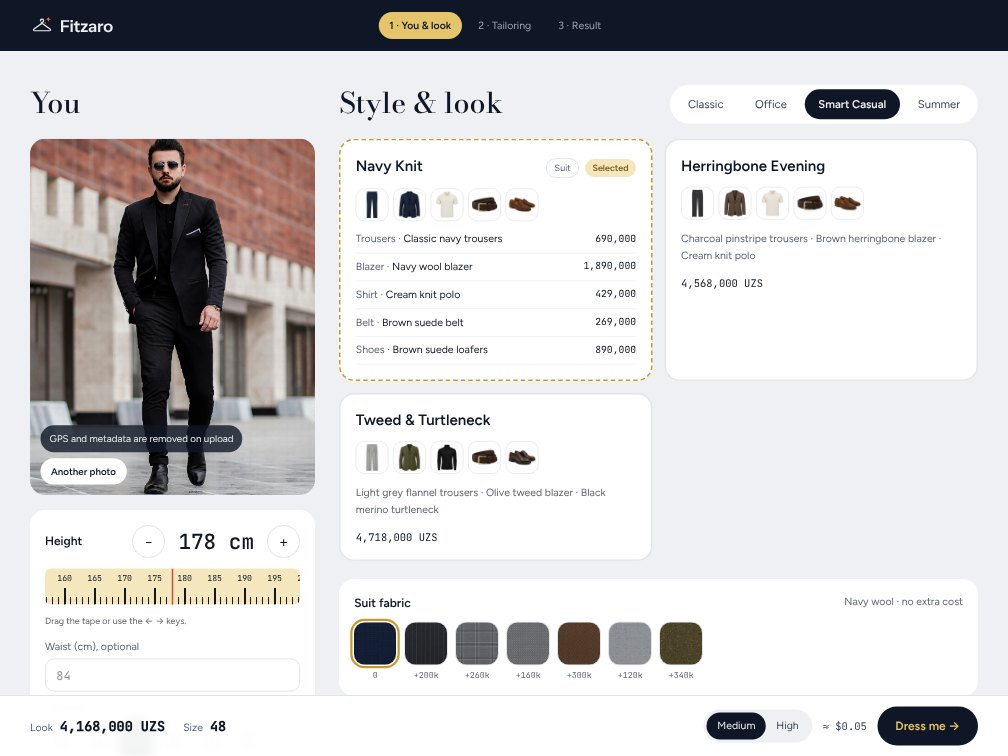
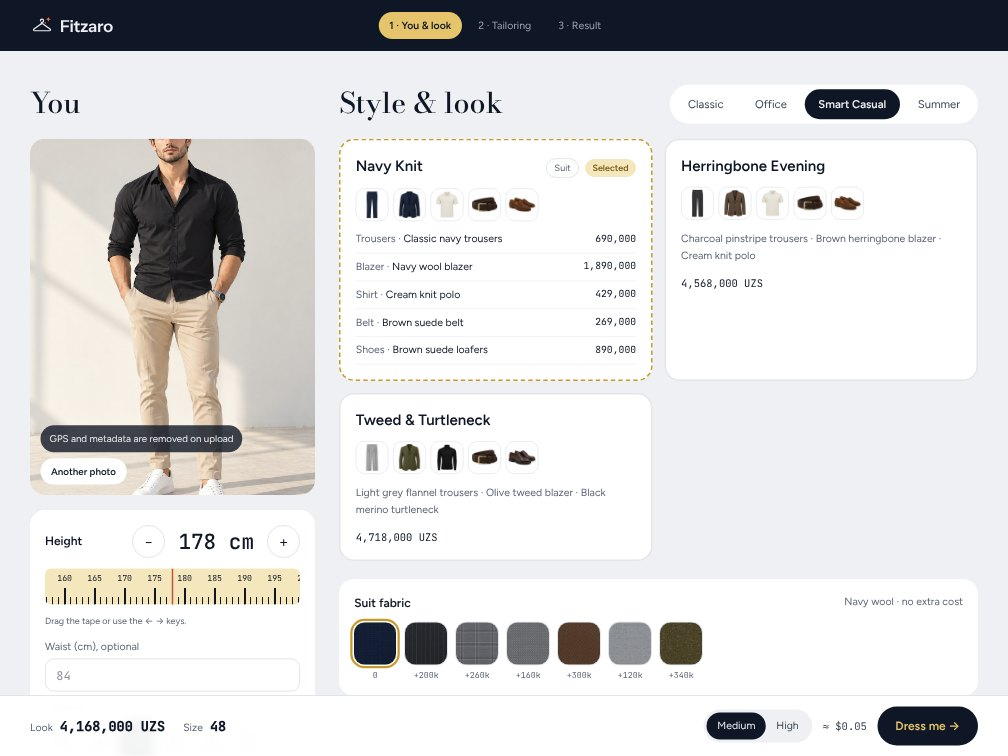
Screenshots and video with an AI-generated model; waiting step screenshot

Changed region(s): [[0.0308, 0.1825, 0.3383, 0.6693]]

diff --git a/README.md b/README.md
@@ -6,11 +6,11 @@ The demo is set up for a menswear shop: suits, separates, accessories and seven 
 
 ![Try-on flow: choose a look, wait for the AI, compare before and after, swap the fabric](docs/screenshots/05-try-on-flow.gif)
 
-| Choose a look and fabric                              | Result with size and price                | Same photo, another fabric                          |
-| ----------------------------------------------------- | ----------------------------------------- | --------------------------------------------------- |
-| ![Choose a look](docs/screenshots/02-choose-look.jpg) | ![Result](docs/screenshots/03-result.jpg) | ![Fabric swap](docs/screenshots/04-fabric-swap.jpg) |
+| Choose a look and fabric                              | The AI at work                              | Result with size and price                | Same photo, another fabric                          |
+| ----------------------------------------------------- | ------------------------------------------- | ----------------------------------------- | --------------------------------------------------- |
+| ![Choose a look](docs/screenshots/02-choose-look.jpg) | ![Waiting](docs/screenshots/06-waiting.jpg) | ![Result](docs/screenshots/03-result.jpg) | ![Fabric swap](docs/screenshots/04-fabric-swap.jpg) |
 
-These come from a real run against the OpenAI Images API, about $0.07 per image. The model photo is from Unsplash ([credits](public/media/CREDITS.md)).
+These come from a real run against the OpenAI Images API, about $0.07 per image. The model in the photo is AI-generated, not a real person.
 
 ## What's in it
 

diff --git a/public/media/CREDITS.md b/public/media/CREDITS.md
@@ -21,7 +21,7 @@ These files are **not** covered by the project's MIT licence.
 
 ## README screenshots
 
-`docs/screenshots/` shows a real try-on of the Unsplash photo by Mohamad Khosravi (https://unsplash.com/photos/man-in-black-suit-jacket-and-black-pants-standing-on-gray-concrete-floor-during-daytime-vS0Kya7E5V4). The "after" images are AI edits of that photo made with the OpenAI Images API.
+`docs/screenshots/` shows a real try-on of an AI-generated model photo (not a real person). The "after" images are AI edits of that photo made with the OpenAI Images API.
 
 ## AI-generated (demo catalogue)
 
